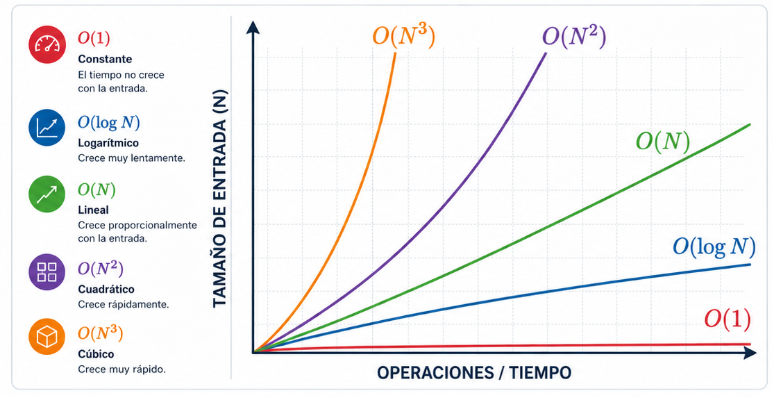
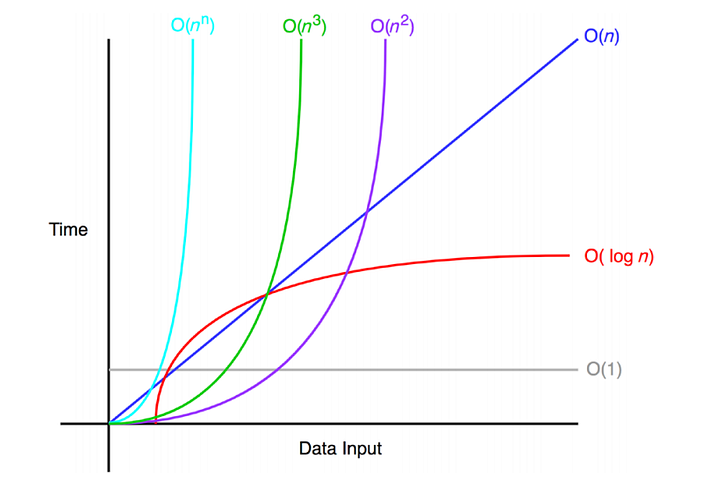
docs: algoritmos cap 01

diff --git a/clases/algoritmos/capitulos/capitulo01/search_binary.py b/clases/algoritmos/capitulos/capitulo01/search_binary.py
@@ -1,0 +1,18 @@
+def search_binary(order_list: list, search_value: int):
+    first = 0
+    last = len(order_list) - 1  # len cuenta desde 1 pero los indices son desde 0
+
+    while first <= last:
+        middle = (first + last) // 2
+        if search_value == order_list[middle]:
+            return True
+        elif search_value < order_list[middle]:
+            last = middle - 1
+        else:
+            first = middle + 1
+        return False
+
+
+order_list = [1, 2, 3, 4, 6, 7]
+search_value = 3
+print(search_binary(order_list, search_value))

diff --git a/clases/algoritmos/capitulos/capitulo01/cap01.md b/clases/algoritmos/capitulos/capitulo01/cap01.md
@@ -1,0 +1,52 @@
+# Capítulo 1
+
+> **Algoritmo**: es un conjunto de instrucciones para realizar una tarea específica.
+>
+> La idea del libro es que comprendas las **compensaciones** (evaluar las ventajas o desventajas de un algoritmo o estructura de datos) para luego utilizarlo en tus proyectos o seguir aprendiendo sobre algoritmos más específicos para IA, bases de datos, entre otros.
+>
+> Recomienda utilizar un lenguaje como Python por lo fácil que es de aprender.
+
+## Busqueda binaria (Binary Search)
+
+Supongamos que quieres buscar un número. En vez de recorrer la lista desde el inicio hasta el final (búsqueda simple/lineal), puedes utilizar la búsqueda binaria, que es mucho más eficiente cuando comienza a crecer: vas eliminando la mitad de los números restantes en cada paso.
+- La lista **debe estar ordenada** para que funcione.
+- Devuelve `True` si encuentra el elemento y `False` si no lo encuentra.
+
+![Búsqueda Binaria](../../assets/busqueda_binaria.png)
+
+## Logaritmos
+> Los logaritmos descubren cuál es la potencia a la que hay que elevar un número (la base) para obtener el valor buscado.
+- Ejemplo: log₂(16) = 4 Es igual a decir esto 2⁴ = 16
+
+### Tiempo logarítmico O(log n)
+Nos permite descubrir cuántas operaciones necesitamos realizar para encontrar un elemento **cuando el algoritmo divide el problema a la mitad en cada paso** (como la búsqueda binaria).
+
+- Si tenemos 16 elementos: log₂(16) = 4 → necesitamos **4 pasos como máximo** para encontrar el elemento.
+- Si crece a 1,024 elementos: log₂(1024) = 10 → necesitaremos **10 pasos**.
+
+## Notación Big O
+
+> La notación Big O nos permite describir el tiempo de ejecución de un algoritmo en función del tamaño de la entrada (n), es decir, qué tan rápido o lento crece a medida que la entrada crece.
+- Mide el **peor caso** (worst case) de un algoritmo.
+- Se expresa como: O(1), O(n), O(n²), O(log n), O(n log n), etc. Me dice que tan rápido crece las operaciones.
+- Medir la velocidad no se mide en segundos, si no en el crecimiento del número de operaciones.
+- Medir la rápidez que tan rapido aumenta el tiempo de ejecución a medida que crece el tamaño de la entrada.
+
+La notación Big O se escribe de la siguiente forma: O(n)
+
+### Las complejidades más comunes (de mejor a peor)
+ 
+| Notación | Nombre | Algoritmo típico | Con n=16 |
+|---|---|---|---|
+| O(1) | Constante | Acceder a un índice (`lista[5]`) | 1 paso |
+| O(log n) | Logarítmico | Búsqueda binaria | log₂(16) = 4 pasos |
+| O(n) | Lineal | Búsqueda simple (`for`) | 16 pasos |
+| O(n log n) | Linearítmico | Quicksort, Merge sort | 16 × 4 = 64 pasos |
+| O(n²) | Cuadrático | Selection sort, bucles anidados | 16² = 256 pasos |
+| O(n³) | Cúbico | Tres bucles anidados | 16³ = 4,096 pasos |
+| O(2ⁿ) | Exponencial | Fibonacci recursivo sin memoización | 2¹⁶ = 65,536 pasos |
+| O(n!) | Factorial | Problema del viajante (fuerza bruta) | 16! ≈ 2 × 10¹³ pasos |
+ 
+Ordenadas de mejor a peor (cada una crece más rápido que la anterior a medida que `n` aumenta):
+
+![Notación Big O](../../assets/notacion_bigo.png)

diff --git a/clases/algoritmos/algoritmos.md b/clases/algoritmos/algoritmos.md
@@ -1,7 +1,7 @@
 # Estructuras de Datos y Algoritmos (Data Structures and Algorithms)
 
 ## Algoritmos (Algorithms)
-Es un conjunto finito de instrucciones secuenciales y lógicas que se le dan a una computadora para resolver un problema específico.
+Es un conjunto de intrucciones para realizar una tarea específica.
 
 ## Estructuras de Datos (Data Structures)
 Son herramientas que nos permiten organizar, almacenar y manipular datos de manera eficiente mientras ejecutamos un algoritmo.
@@ -82,7 +82,7 @@ Es una estructura lineal que sigue un orden estricto de acceso basado en el prin
 * > 💡 **Analogía Feynman:** Es exactamente igual a una pila de platos limpios en la cocina. El último plato que lavas lo pones arriba de todos (`Push`), y cuando alguien necesita un plato para comer, toma obligatoriamente ese mismo que pusiste al último (`Pop`). No puedes sacar el plato de abajo sin destruir la torre.
 
 ### 3. Colas (Queues)
-Es una estructura lineal basada en el principio **FIFO** (*First-In, First-Out*: El primero en entrar es el primero en salir).
+Es una estructura lineal basada en el principio **FIFO** (*First-In, First-Out*: El primero en entrar es el primero en salir). Tiene muchos casos reales como guardar la orden de impresión, en aplicaciones donde el orden de solicitudes del usuario es importante como la venta de entradas para un concierto.
 
 * **Operaciones Clave:**
     * **`Enqueue`:** Añade un elemento al final de la cola (`Tail`). Complejidad: **$O(1)$**.
